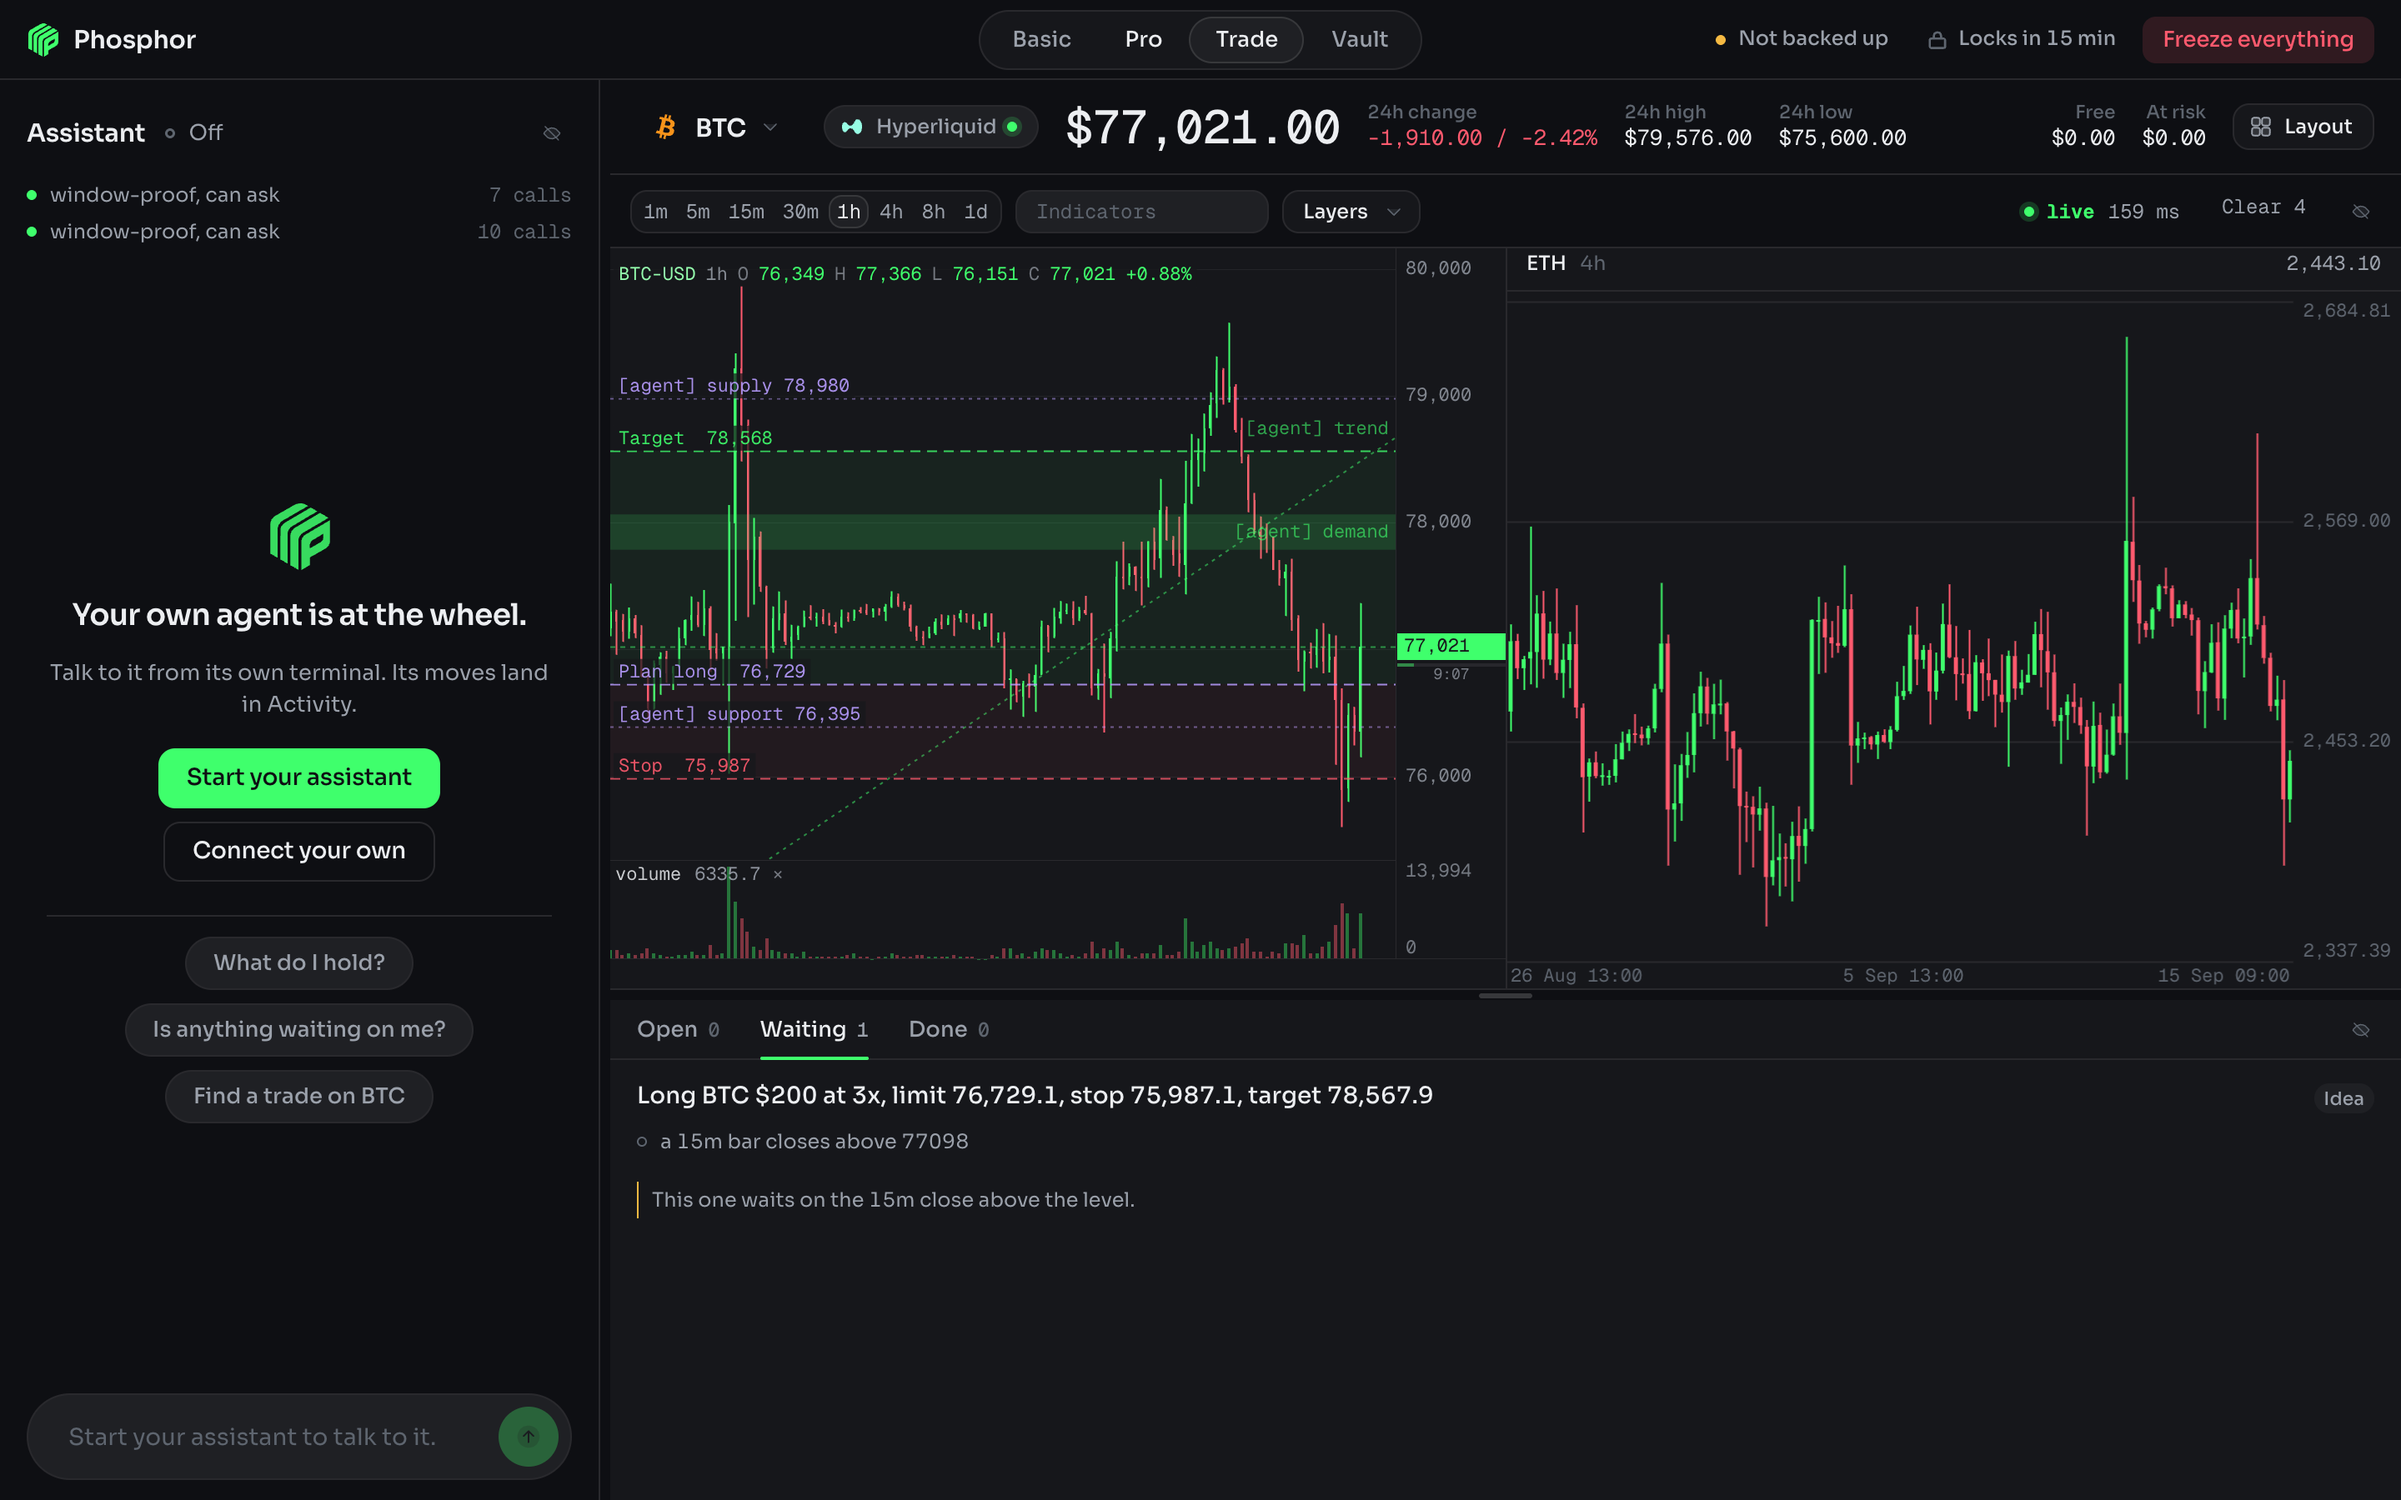
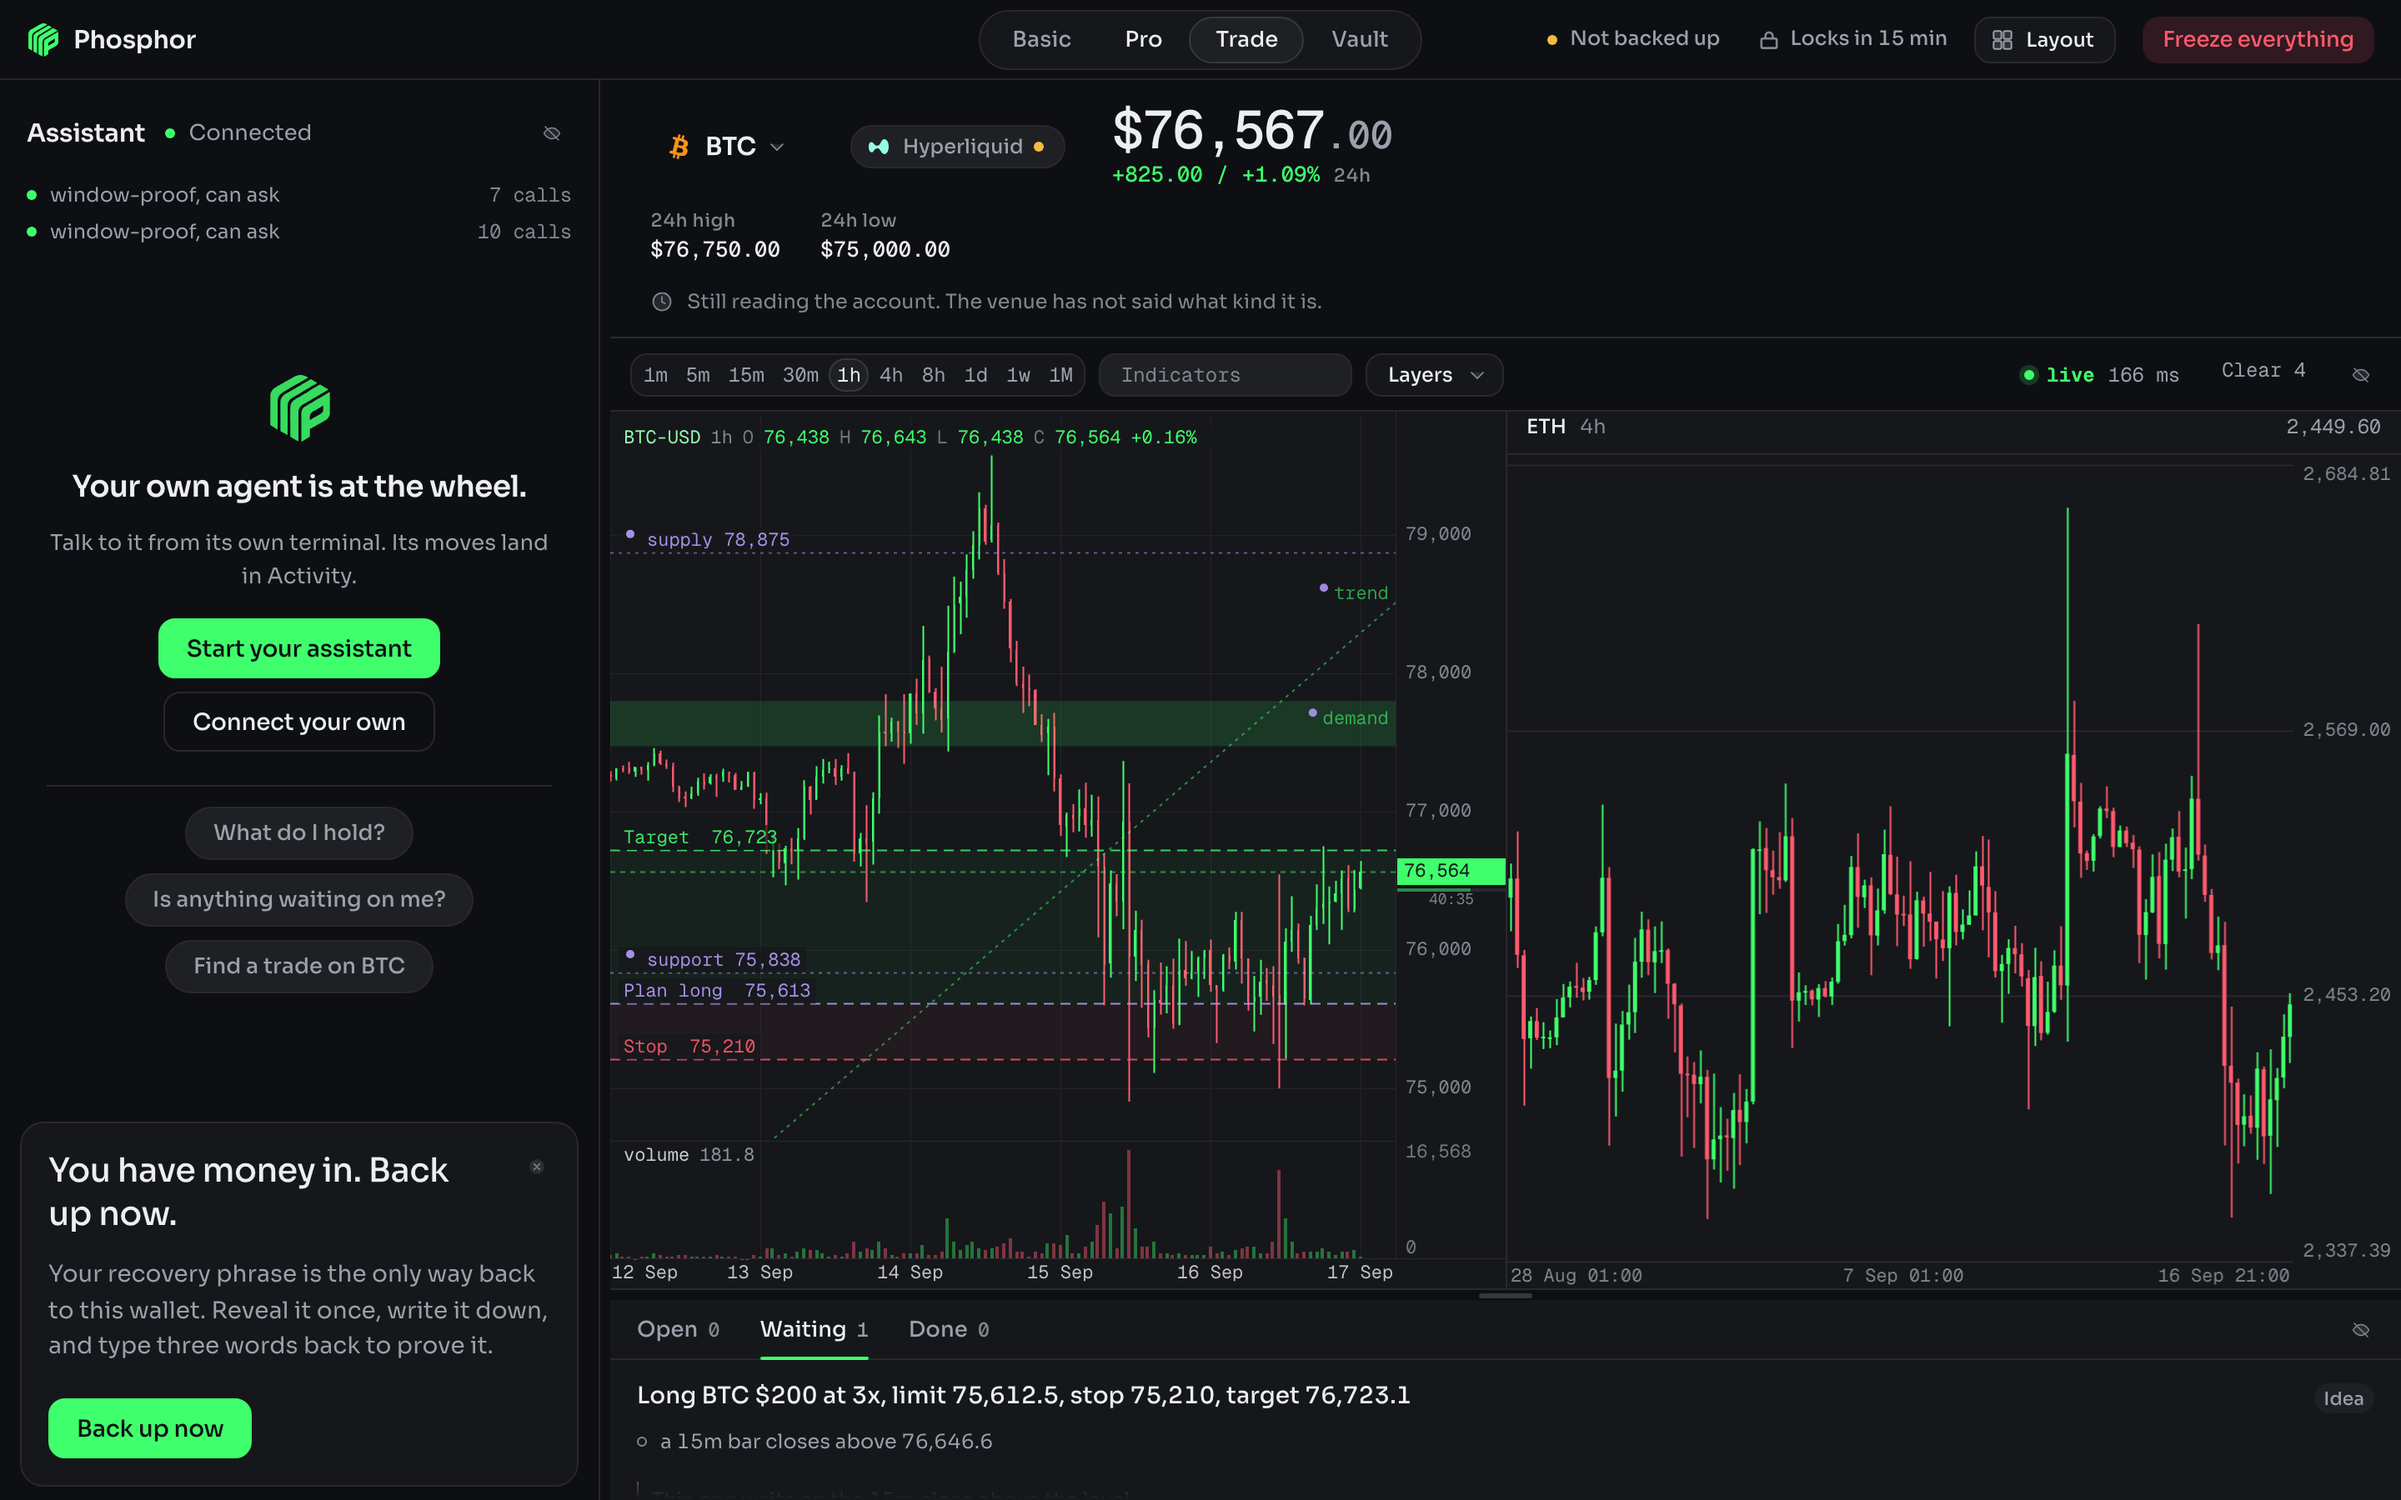
The backfill reaches the venue's own window: the real provider now honours the end the store asks for, where before it fetched the newest window again and every series on the real venue was marked bottomed after one page, and a date rung may sit at 72 px so a five day chart in a half width pane prin

diff --git a/tests/unit/market-catalog.test.ts b/tests/unit/market-catalog.test.ts
@@ -4,9 +4,12 @@
 import { test } from 'node:test';
 import assert from 'node:assert/strict';
 
+import os from 'node:os';
+import path from 'node:path';
+
 import type { Candle } from '../../src/types.ts';
 import { createCatalog, normalizeQuery } from '../../src/market/catalog.ts';
-import { pageBackward, planBase, COINBASE_NATIVES, HYPERLIQUID_NATIVES } from '../../src/market/providers.ts';
+import { createProviders, pageBackward, planBase, COINBASE_NATIVES, HYPERLIQUID_NATIVES } from '../../src/market/providers.ts';
 
 const HL_META = {
   universe: [{ name: 'BTC' }, { name: 'ETH' }, { name: 'SOL' }, { name: 'HYPE' }, { name: 'WIF' }, { name: 'OLD', isDelisted: true }],
@@ -167,4 +170,52 @@ test('paging stops when the venue runs out of history instead of looping', async
 
   assert.ok(calls <= 2, `should stop as soon as history stops moving, took ${calls}`);
   assert.equal(got.length, 1);
+});
+
+test('a window asked for behind a moment ends there on both venues, not at now', async () => {
+  // The store's backfill asks fetchWindow for the bars before the oldest it holds. A venue call
+  // anchored at now would answer with the newest window again, and the store would read the
+  // overlap as "the venue has no more": measured 2026-09-16, every backfill on the real venue
+  // came back 1850 bars short and marked every series bottomed after one page.
+  const asked: { venue: string; start: number; end: number }[] = [];
+  const fetchImpl = (async (input: string | URL, init?: RequestInit) => {
+    const url = String(input);
+    if (url.includes('hyperliquid')) {
+      const body = JSON.parse(String(init?.body)) as { type: string; req: { startTime: number; endTime: number } };
+      if (body.type !== 'candleSnapshot') return { ok: true, json: async () => HL_META, text: async () => '', headers: new Headers() };
+      asked.push({ venue: 'hyperliquid', start: body.req.startTime / 1000, end: body.req.endTime / 1000 });
+      const rows: { t: number; o: string; h: string; l: string; c: string; v: string }[] = [];
+      for (let t = Math.ceil(body.req.startTime / 1000 / 3600) * 3600; t <= body.req.endTime / 1000; t += 3600) rows.push({ t: t * 1000, o: '1', h: '1', l: '1', c: '1', v: '1' });
+      return { ok: true, json: async () => rows, text: async () => '', headers: new Headers() };
+    }
+    if (url.includes('/candles')) {
+      const u = new URL(url);
+      const start = Date.parse(u.searchParams.get('start') as string) / 1000;
+      const end = Date.parse(u.searchParams.get('end') as string) / 1000;
+      asked.push({ venue: 'coinbase', start, end });
+      const rows: number[][] = [];
+      for (let t = Math.ceil(start / 3600) * 3600; t <= end; t += 3600) rows.push([t, 1, 1, 1, 1, 1]);
+      return { ok: true, json: async () => rows.reverse(), text: async () => '', headers: new Headers() };
+    }
+    return { ok: true, json: async () => CB_PRODUCTS, text: async () => '', headers: new Headers() };
+  }) as unknown as typeof fetch;
+  const catalog = createCatalog({ fetchImpl, cachePath: path.join(os.tmpdir(), `phosphor-catalog-${process.pid}-${Date.now()}.json`) });
+  await catalog.refresh();
+  const providers = createProviders({ catalog, fetchImpl, now: () => 1_800_000_000_000 });
+
+  const endSec = 1_790_000_000 - (1_790_000_000 % 3600);
+  const hl = await providers.fetchWindow('BTC-USD', 3600, 100, 'hyperliquid', endSec);
+  assert.equal(asked[0]?.venue, 'hyperliquid');
+  assert.equal(asked[0]?.end, endSec, 'the venue window ends at the moment asked for');
+  assert.ok(hl.length >= 100 && (hl[hl.length - 1] as Candle).t <= endSec, `${hl.length} bars, newest ${(hl[hl.length - 1] as Candle).t}`);
+
+  asked.length = 0;
+  const cb = await providers.fetchWindow('PEPE-USD', 3600, 100, 'coinbase', endSec);
+  assert.equal(asked[0]?.venue, 'coinbase');
+  assert.equal(asked[0]?.end, endSec);
+  assert.ok(cb.length >= 100 && (cb[cb.length - 1] as Candle).t <= endSec);
+
+  asked.length = 0;
+  await providers.fetchWindow('BTC-USD', 3600, 10, 'hyperliquid');
+  assert.equal(asked[0]?.end, 1_800_000_000, 'without a moment the window ends now');
 });

diff --git a/tests/unit/chart-chrome-ui.test.ts b/tests/unit/chart-chrome-ui.test.ts
@@ -291,8 +291,17 @@ test('a 1d window across a year boundary shows the months and the year where it 
   const s = loadChartUi();
   // Daily bars are the venue's days, so the calendar here is UTC: 1 Nov 2025 to 28 Feb 2026.
   const labels = axisLabels(s, utcBars('2025-11-01T00:00:00Z', 86400, 120), 86400);
-  assert.equal(labels[0], 'Nov 2025', 'the first tick carries the year when the window spans two');
-  assert.deepEqual(labels.slice(1), ['Dec', '2026', 'Feb']);
+  assert.equal(labels[0], '1 Nov 2025', 'the first tick carries the year when the window spans two');
+  // Fortnightly Monday ticks at this width: the month where it turns, the year where it does.
+  assert.equal(labels.filter((l) => l === '2026').length, 1, labels.join(' | '));
+  assert.ok(labels.includes('Dec') && labels.includes('Feb'), labels.join(' | '));
+  assert.ok(!labels.includes('Jan'), 'January is named by its year, not twice');
+  for (const label of labels.slice(1)) assert.match(label, /^(\d+ [A-Z][a-z]{2}|[A-Z][a-z]{2}|\d{4})$/, label);
+
+  // Squeezed to a bar a pixel, two years of days climb to the quarter rung.
+  const tight = axisLabels(s, utcBars('2025-11-01T00:00:00Z', 86400, 700), 86400);
+  assert.equal(tight[0], 'Nov 2025');
+  assert.deepEqual(tight.slice(1, 5), ['2026', 'Apr', 'Jul', 'Oct']);
 });
 
 test('a 1w window ticks on Mondays and a squeezed one on the first bar of each year', () => {

diff --git a/ui/chart/chart.js b/ui/chart/chart.js
@@ -174,6 +174,10 @@ var PANE_MAX = 96;
 var PRICE_PAD = 0.06; // headroom above and below the auto-fitted range
 var GRID_PRICE_GAP = 46; // target pixels between price grid lines
 var GRID_TIME_GAP = 96;
+/* A date is a short label (`16 Sep` is six characters) and a day tick is worth having a little
+   closer than a clock tick: a five day chart in a half width pane used to climb to the week
+   rung at 90 px a day and print one Monday. */
+var GRID_DATE_GAP = 72;
 
 /* The server's sentinel for a calendar month: the mean Gregorian month in seconds. A month is
    not a fixed number of seconds, so it travels as this number and every place that buckets by
@@ -1293,7 +1297,7 @@ function timeTicks(L) {
   var rung = null;
   for (var r = 0; r < TIME_RUNGS.length; r++) {
     if (TIME_RUNGS[r].sec < granularity) continue;
-    if ((TIME_RUNGS[r].sec / granularity) * L.slot >= GRID_TIME_GAP) {
+    if ((TIME_RUNGS[r].sec / granularity) * L.slot >= (TIME_RUNGS[r].unit ? GRID_DATE_GAP : GRID_TIME_GAP)) {
       rung = TIME_RUNGS[r];
       break;
     }

diff --git a/src/market/providers.ts b/src/market/providers.ts
@@ -153,9 +153,10 @@ export function createProviders(deps: ProviderDeps) {
      `provider` is the venue the store keyed this series under, so the routing here has to
      agree with it exactly: resolving the product freely and landing somewhere else would
      write one venue's bars under another venue's key, which is the splice the store's own
-     keyOf comment exists to prevent. */
-  async function fetchWindow(product: string, baseSec: number, bars: number, provider: string): Promise<Candle[]> {
-    const nowSec = Math.floor(now() / 1000);
+     keyOf comment exists to prevent. `endSec` is where the window ends, for the store's
+     backfill behind the oldest bar it holds; absent, it ends now. */
+  async function fetchWindow(product: string, baseSec: number, bars: number, provider: string, endSec?: number): Promise<Candle[]> {
+    const nowSec = endSec ?? Math.floor(now() / 1000);
     const ref =
       provider === 'coinbase' || provider === 'hyperliquid'
         ? deps.catalog.resolveOn(product, provider)
